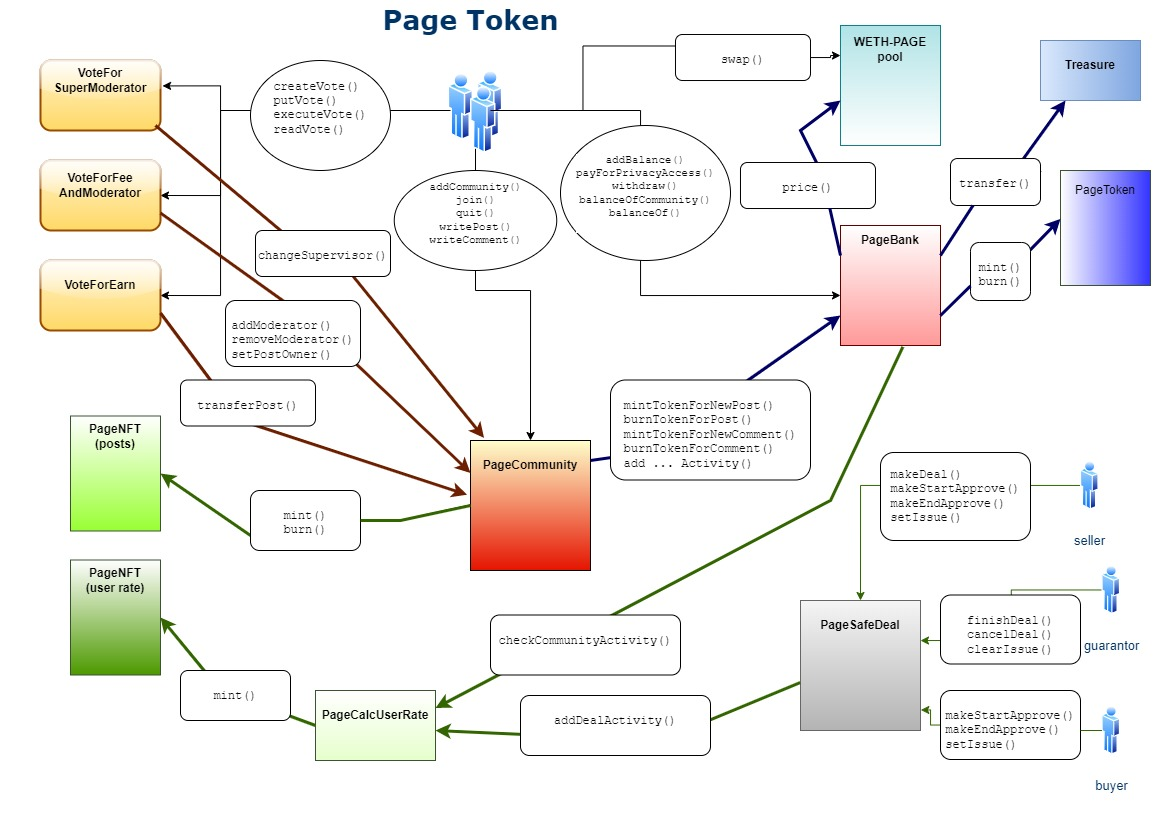
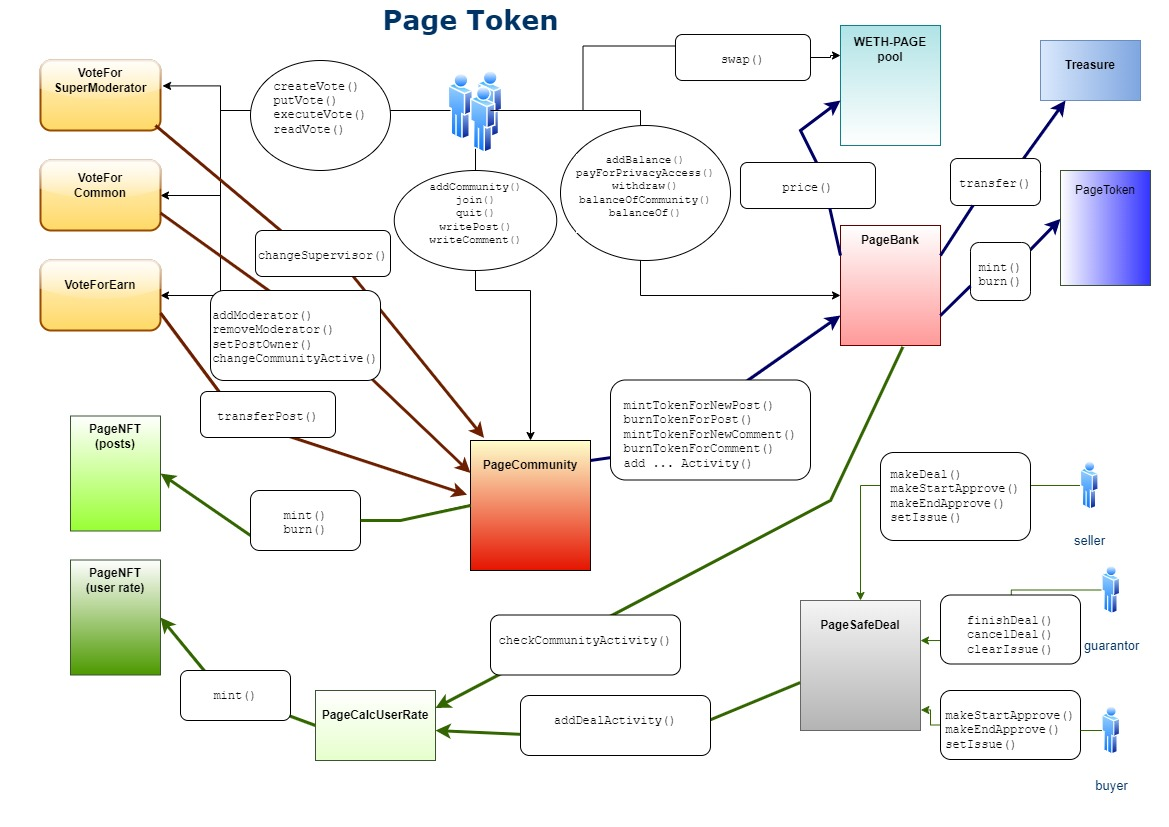
added vote for active community

Changed region(s): [[0.154, 0.3325, 0.3388, 0.5441], [0.0616, 0.2116, 0.1232, 0.2418], [0.308, 0.3628, 0.3388, 0.393]]

diff --git a/tests/test_page_vote_for_common.py b/tests/test_page_vote_for_common.py
@@ -78,5 +78,32 @@ def test_put_execute_vote(chain, accounts, pageVoteForCommon, pageCommunity, pag
     assert readCommentFee[3] == 13
 
 
+def test_execute_community_active_vote(chain, accounts, pageVoteForCommon, pageCommunity, pageBank, pageToken, someUser, deployer, treasury):
+    communityName = 'First users'
+    pageCommunity.addCommunity(communityName)
+    pageCommunity.join(1, {'from': someUser})
+    pageCommunity.join(1, {'from': deployer})
+
+    voteDesc = 'test for vote'
+    pageVoteForCommon.createVote(1, voteDesc, duration, 6, [0, 0, 0, 0], ZERO_ADDRESS, {'from': accounts[0]})
+
+    readVotesCount = pageVoteForCommon.readVotesCount(1)
+    assert readVotesCount == 1
+
+    pageToken.transfer(someUser, 1000, {'from': treasury})
+    pageToken.transfer(deployer, 1000, {'from': treasury})
+
+    pageVoteForCommon.putVote(1, 0, True, {'from': someUser})
+    pageVoteForCommon.putVote(1, 0, True, {'from': deployer})
+
+    isActiveCommunity = pageCommunity.isActiveCommunity(1)
+    assert isActiveCommunity == True
+
+    chain.sleep(duration + 10)
+    pageVoteForCommon.executeVote(1, 0, {'from': someUser})
+
+    isActiveCommunity = pageCommunity.isActiveCommunity(1)
+    assert isActiveCommunity == False
+
 
 

diff --git a/docs/descCommunity.md b/docs/descCommunity.md
@@ -169,6 +169,3 @@ https://crypto.page/white_paper.html
    pageCommunity.addVoterContract - адрес этого контракта
    
 =======================================================================================================
-
-Необходимо сделать:
-1. Сделать изменение видимости для Сообщества через голосование
